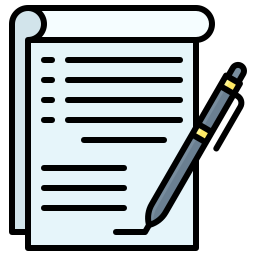
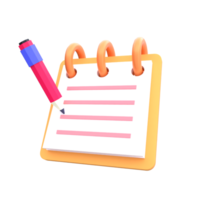
g

diff --git a/src/App.scss b/src/App.scss
@@ -529,10 +529,21 @@
 /* Asosiy dizayn */
 /* Asosiy dizayn */
 /* Asosiy dizayn */
+.asidefixed{
+  position: fixed;
+  z-index: 9999;
+}
+
+.navbarrr {
+  background-color: #000a1d;
+  color: #fff !important;
+  padding: 20px 20px !important;
+  transition: all 0.3s ease-in-out;
+}
 .aside {
   overflow-y: auto;
   height: 100vh;  /* Ekran balandligiga mos keladi */
-  background-color: #1a202c;
+  background-color: #000a1d;
   color: #fff;
   left: 0;
   bottom: 0;
@@ -540,7 +551,6 @@
   flex-direction: column;
   align-items: center;
   // position: fixed;
-  box-shadow: 2px 0 5px rgba(0, 0, 0, 0.1);
 }
 
 .col-110 {
@@ -591,8 +601,7 @@
 }
 
 .aside-menu li a:hover {
-  background-color: #194ca3 !important;
-  border-radius: 5px;
+  background-color: #001d52 !important;
 }
 
 .aside-menu li a.active {
@@ -614,18 +623,17 @@
 .aside-menu li a i {
   margin-right: 15px;
   font-size: 1.2rem;
+  color: #00dc82; /* Ikon rangi qora */
 }
 
 .aside-menu li a span {
   display: inline-block;
 }
 .active {
-  // background-color: #3467cc !important;
-  background-color: #2f477c !important;
-  font-weight: bold !important;
-  border-radius: 5px;
-  box-shadow: -3px 3px 10px 1px rgb(42, 60, 142);
-  animation: toright 1s forwards;
+  background-color: #001d52  !important;
+}
+.active a span{
+  color: #fff !important;
 }
 @keyframes toright {
   0% {
@@ -635,8 +643,8 @@
     transform: translateX(10px);
   }
 }
-.active i {
-  color: #a0cbff; /* Ikon rangi qora */
+.aside-menu {
+  width: 100% !important;
 }
 
 .aside-menu li a span {
@@ -2142,11 +2150,6 @@ h4 {
   transform: scale(1.1);
 }
 
-.navbarrr {
-  background-color: #ecf5ff;
-  padding: 20px 20px !important;
-  transition: all 0.3s ease-in-out;
-}
 .profilgakirish {
   margin-right: 5px;
 }
@@ -2230,6 +2233,11 @@ h4 {
     opacity: 1;
     transform: translateY(0px);
   }
+}
+.nav-link{
+  color: #fff !important;
+  font-size: 1.2rem !important;
+  padding: 10px 20px !important;
 }
 .navprofile{
   color: #fff !important;
@@ -2430,8 +2438,9 @@ marquee{
   color: rgb(0, 225, 255) !important;
 }
 .tuzilmalarcontrol{
-  background-color: #253553 !important;
+  background-color: #1d2c47 !important;
   padding: 10px;
+  margin: 10px;
   border-radius: 15px;
   }
   // ukkk{

diff --git a/src/Components/Admin/AdminRoute.jsx b/src/Components/Admin/AdminRoute.jsx
@@ -33,8 +33,11 @@ function AdminRoute() {
     <div className="container-fluid">
       <div className="row">
         {/* Chap taraf: Aside */}
-        <div className="col-2 p-0">
+        <div className="col-2 asidefixed p-0">
           <Aside />
+        </div>
+        <div className="col-2 p-0">
+          
         </div>
 
         {/* O'ng taraf: Navbar va asosiy content */}

diff --git a/src/config.js b/src/config.js
@@ -1,4 +1,4 @@
-// export const API = `https://076frgfw-1123.euw.devtunnels.ms/api`;
-export const API = `http://localhost:1123/api`;
+export const API = `https://076frgfw-1123.euw.devtunnels.ms/api`;
+// export const API = `http://localhost:1123/api`;
 // export const API = `https://api.mkundalik.uz/api`;
 // export const API = `https://tashmetro-server3.onrender.com/api`;
